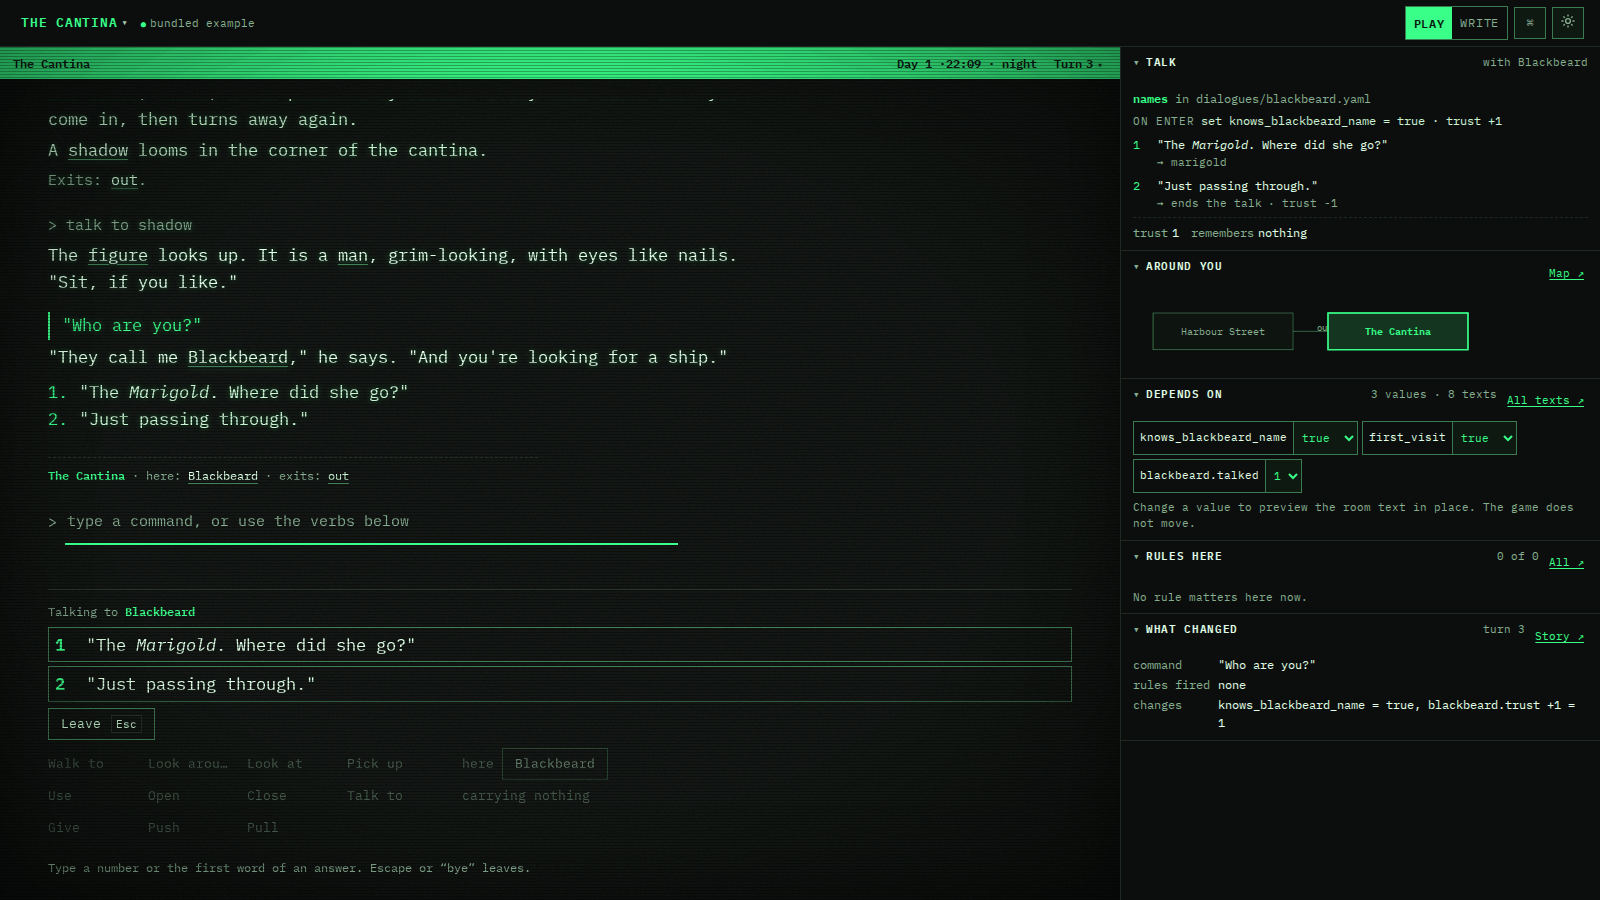
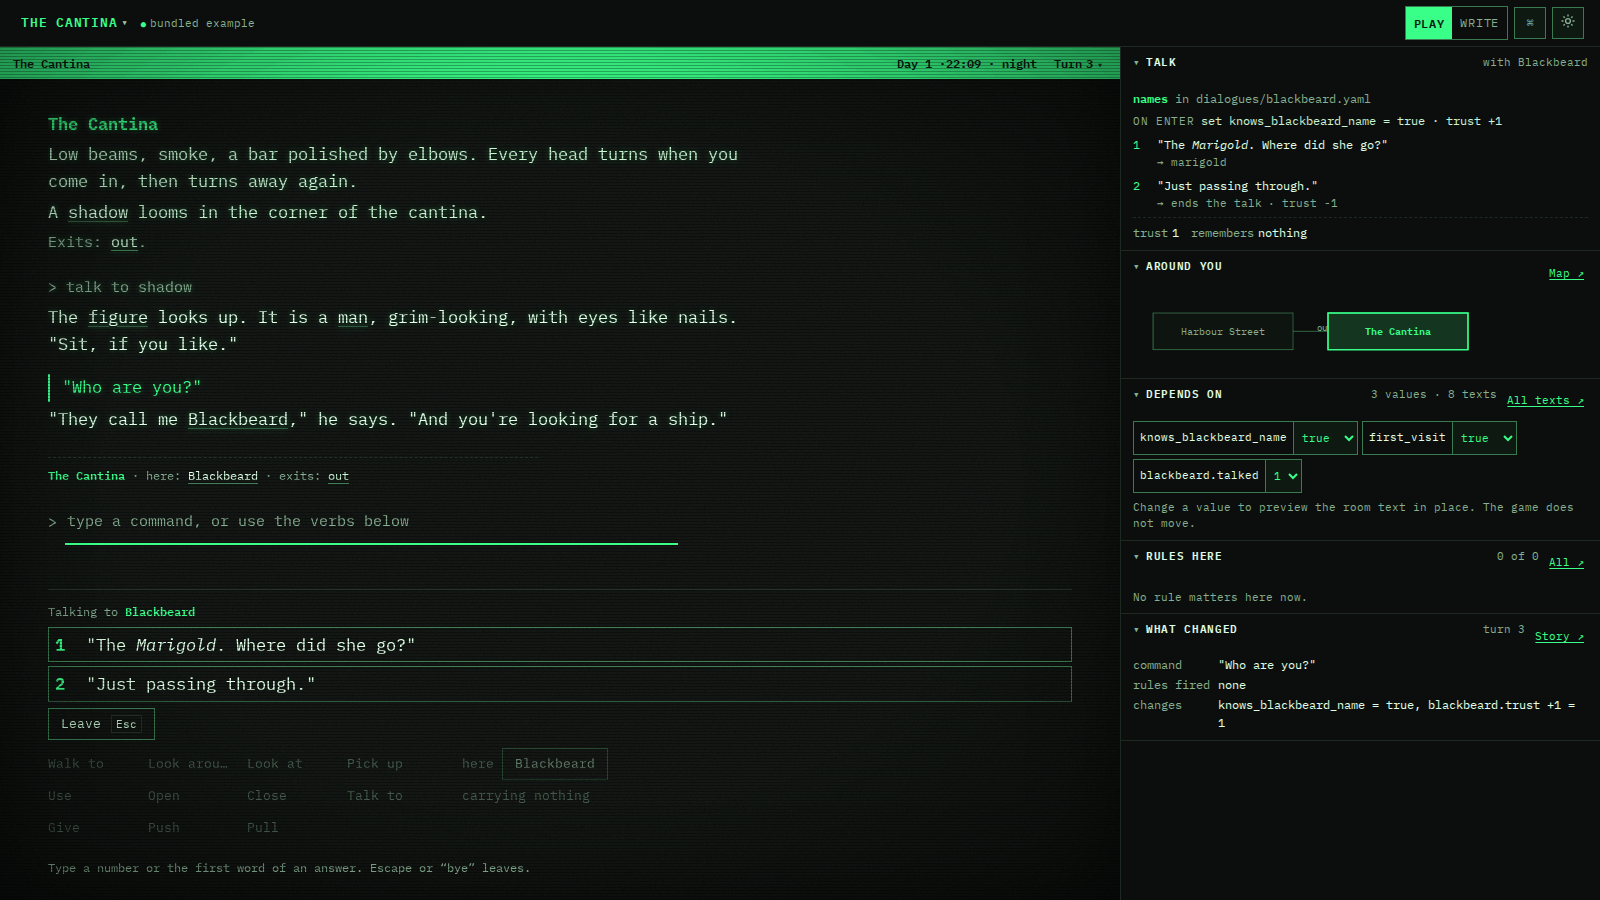
Show the answers of a talk only in the verb bar (#27)
## What

In a talk, the answers showed twice: as a numbered list in the story
text, and as buttons in the verb bar. Now they show only in the verb
bar.

- Transcript: in a talk it shows only what is said: the chosen answer,
then the other character's line. A new prop, `choicesInText`, shows the
numbered list again for a layout without a verb bar. The app does not
set it.
- Verb bar: it keeps the numbered answers and Leave. Number keys and Esc
work as before.
- Focus: when a talk starts, the focus goes to the first answer. After a
choice it goes to the new first answer, if it was on an old one. The
transcript `log` region announces the new line.
- CLI: unchanged. It keeps its numbered list.
- New Transcript stories for a talk. Updated VerbBar docs, the author
guide and the README caption. `docs/images/talk.png` is taken again, the
same way as before.

## Checks

- `task verify`, `pnpm check` (0 errors) and the Storybook build pass.
- axe (WCAG 2.2 AA) finds no violations on the Transcript and VerbBar
talk stories in all three themes.
- Web player, tested by hand: the focus moves to the first answer, the
`1` key chooses, Enter on an answer chooses, and Esc leaves.

diff --git a/web/src/lib/design/organisms/Transcript.stories.svelte b/web/src/lib/design/organisms/Transcript.stories.svelte
@@ -2,7 +2,7 @@
 	import { defineMeta } from '@storybook/addon-svelte-csf';
 	import type { ComponentProps } from 'svelte';
 	import { fn } from 'storybook/test';
-	import { authorTurn, doorTurn, drawerTurn, endTurn, entries, findings, exits, openingTurn, things } from '../fixtures.ts';
+	import { authorTurn, talkTurns, doorTurn, drawerTurn, endTurn, entries, findings, exits, openingTurn, things } from '../fixtures.ts';
 	import Transcript from './Transcript.svelte';
 	import FragmentWriter from './FragmentWriter.svelte';
 	import { shoreFragment, writerTools } from '../fixtures.ts';
@@ -38,6 +38,8 @@ Each echoed command starts with "You typed:" for screen readers.
 The **room brief** is one line under the newest turn: the room, the things here and the exits, all clickable. It shows only when the newest turn did not print the room, for example after "pick up iron key". Thus the text never ends without something to act on. The brief is not part of the log, so screen readers do not read it again after each turn, and it does not stay in the history.
 
 Screen-reader labels, such as "You typed:", are not part of copied text.
+
+In a **talk**, the transcript shows only what is said: the answer that the player chose (with a line on the left, and "You say:" for screen readers), then the line of the other character. The answers to choose from are in the verb bar. The log region announces the new line. For a layout without the verb bar, set \`choicesInText\`: then the numbered answers show under the newest line.
 
 When \`showSources\` is on (in the app: in write mode), text from an action frame has a small "frame" mark before it. The mark has a title that names the frame, for example "story frame for look, before".
 
@@ -129,4 +131,6 @@ The transcript scrolls to the newest text. Put it in a container with a fixed he
 	}}
 	{template}
 />
+<Story name="In a talk" args={{ entries: talkTurns.map((turn, id) => ({ id, turn })), room: 'cantina' }} {template} />
+<Story name="In a talk, answers in the text" args={{ entries: talkTurns.map((turn, id) => ({ id, turn })), room: 'cantina', choicesInText: true }} {template} />
 <Story name="Ending" args={{ entries: [{ id: 0, turn: openingTurn }, { id: 1, turn: endTurn }] }} {template} />

diff --git a/web/src/lib/design/organisms/VerbBar.svelte b/web/src/lib/design/organisms/VerbBar.svelte
@@ -60,6 +60,20 @@
 
 	const talking = $derived(talkingTo !== null);
 
+	let talkSection: HTMLElement | undefined = $state();
+	let wasTalking = false;
+	// The answers are the only way on during a talk. When a talk starts, the focus goes to the first answer.
+	// After a choice the old buttons go away; when the focus was on one of them, it goes to the new first answer.
+	$effect(() => {
+		const list = choices;
+		const starts = talking && !wasTalking;
+		wasTalking = talking;
+		if (!talking || !list.length || !talkSection) return;
+		const active = document.activeElement;
+		const lost = !active || active === document.body || talkSection.contains(active);
+		if (starts || lost) queueMicrotask(() => talkSection?.querySelector<HTMLButtonElement>('.choice')?.focus());
+	});
+
 	const selectedVerb = $derived(verbs.find((v) => v.id === selected));
 	const toItem = (t: ThingInfo) => ({ id: t.id, label: t.name, inspect: `thing:${t.id}` });
 </script>
@@ -72,7 +86,7 @@
 <div class="verb-bar" class:talking>
 	{#if talking}
 		<!-- A talk stays open until the player leaves. The answers replace the verbs; the verbs and things dim and do not take focus. -->
-		<section class="talk" aria-label="Talking to {talkingTo}">
+		<section class="talk" aria-label="Talking to {talkingTo}" bind:this={talkSection}>
 			<p class="talk-head">Talking to <strong>{talkingTo}</strong></p>
 			<ol class="choices">
 				{#each choices as c (c.index)}

diff --git a/web/src/lib/design/organisms/Transcript.svelte b/web/src/lib/design/organisms/Transcript.svelte
@@ -61,6 +61,11 @@
 		 * and the list of answers.
 		 */
 		talkwriter?: Snippet;
+		/**
+		 * Show the numbered answers of a talk in the text. Off by default: the verb bar shows the answers.
+		 * Set it for a layout without the verb bar, so that the talk stays playable.
+		 */
+		choicesInText?: boolean;
 		/** In write mode: the last command, when it got the default response. It offers "Write a response". */
 		respond?: string | null;
 		onrespond?: () => void;
@@ -87,6 +92,7 @@
 		respond = null,
 		onrespond,
 		talkwriter,
+		choicesInText = false,
 		preview = null,
 		margin = null,
 		ghosts = [],
@@ -448,8 +454,8 @@
 				{/each}
 				{#if entry.id === latest && entry.turn.talk && talkwriter}
 					{@render talkwriter()}
-				{:else if entry.id === latest && entry.turn.choices?.length}
-					<!-- The answers, numbered as the player types them. The verb bar has the buttons. -->
+				{:else if choicesInText && entry.id === latest && entry.turn.choices?.length}
+					<!-- The answers, numbered as the player types them, for a layout without the verb bar. -->
 					<ol class="choices" aria-label="Answers">
 						{#each entry.turn.choices as c (c.index)}
 							<li><span class="choice-number" aria-hidden="true">{c.index + 1}.</span><span>{#each pieces(c.text) as p, j (j)}{#if p.em}<em>{p.text}</em>{:else}{p.text}{/if}{/each}</span></li>

diff --git a/web/src/lib/design/organisms/VerbBar.stories.svelte b/web/src/lib/design/organisms/VerbBar.stories.svelte
@@ -48,7 +48,7 @@ A two-object verb, such as "Use", waits for a second thing. The "just use it" bu
 The verbs are toggle buttons (\`aria-pressed\`). The sentence line is a live region, so screen readers announce the command as it grows.
 The verb grid changes its number of columns with the width of the screen.
 
-During a talk (\`talkingTo\` is set), the answers that the player can choose show above the verbs, as a numbered list of buttons, with "Leave" after them. The verbs and the things dim and are inert: they do not take focus, and screen readers skip them. Only an answer or "Leave" ends the turn. The number keys and Escape do the same as the buttons; \`aria-keyshortcuts\` tells assistive technology.`
+During a talk (\`talkingTo\` is set), the answers that the player can choose show above the verbs, as a numbered list of buttons, with "Leave" after them. This is the only place of the answers: the transcript shows only what is said. When a talk starts, the focus goes to the first answer. After a choice, the focus goes to the new first answer when it was on an old one. The verbs and the things dim and are inert: they do not take focus, and screen readers skip them. Only an answer or "Leave" ends the turn. The number keys and Escape do the same as the buttons; \`aria-keyshortcuts\` tells assistive technology.`
 				}
 			}
 		}

diff --git a/web/src/lib/design/fixtures.ts b/web/src/lib/design/fixtures.ts
@@ -613,3 +613,28 @@ export const blackbeardTalk: TalkView = {
 	relations: [['trust', 0]],
 	memories: ['asked_marigold']
 };
+
+/** A talk with Blackbeard: the player chose "Who are you?". */
+export const talkTurns: Turn[] = [
+	{
+		blocks: [
+			{ kind: 'command', runs: [{ text: 'talk to shadow' }] },
+			{ kind: 'speech', runs: [{ text: 'The figure looks up. It is a man, grim-looking, with eyes like nails. "Sit, if you like."' }] }
+		],
+		ended: false,
+		log: []
+	},
+	{
+		blocks: [
+			{ kind: 'said', runs: [{ text: '"Who are you?"' }] },
+			{ kind: 'speech', runs: [{ text: '"They call me Blackbeard," he says. "And you\'re looking for a ship."' }] }
+		],
+		ended: false,
+		log: [],
+		talk: { dialogue: 'blackbeard', with: 'blackbeard', name: 'Blackbeard', node: 'names' },
+		choices: [
+			{ index: 0, text: '"The *Marigold*. Where did she go?"' },
+			{ index: 1, text: '"Just passing through."' }
+		]
+	}
+];

diff --git a/docs/writing-stories.md b/docs/writing-stories.md
@@ -168,14 +168,16 @@ Conditions can read the new values:
 
 During a talk:
 
-- The game shows the answers as a numbered list. Type a number, or the first word of an answer. In the web player, click an answer or push its number key.
+- The story text shows only what is said: the answer of the player, then the line of the thing.
+- In the web player, the answers are in the verb bar, as numbered buttons. Click an answer or push its number key. When the talk starts, the focus goes to the first answer.
+- In the terminal, the answers show as a numbered list after the text. Type a number, or the first word of an answer.
 - Each answer takes one turn.
 - Other commands do not run. To leave the talk, type `bye` or `leave`, or push Escape.
 - A talk ends when the player chooses an answer that ends it, when a node has no answer that shows, or when an effect takes the player away.
 
 `loremaster check` examines each dialogue: conditions, markup, targets of `go`, and nodes that no start node leads to.
 
-![A talk with Blackbeard in the web player. The answers show as a numbered list in the story text and in the verb bar.](images/talk.png)
+![A talk with Blackbeard in the web player. The story text shows what is said. The answers are numbered buttons in the verb bar.](images/talk.png)
 
 In the editor, the room desk shows the dialogues of the things in the room. During a talk in write mode (Ctrl+E), you can change the line and the answers in the game text.
 

diff --git a/README.md b/README.md
@@ -10,7 +10,7 @@ Try it in the browser: [sunsided.github.io/loremaster](https://sunsided.github.i
 
 ![Write mode: the same room. Each text fragment shows its layer and its condition in the margin, and the room desk shows the file, notes and rules.](docs/images/write.png)
 
-![A talk in the cantina example. The player asked Blackbeard "Who are you?", and he gave his name. The numbered answers show in the story text and in the verb bar, with "Leave". The verbs and things are dim during the talk. The side panel shows the node of the dialogue, its changes and the trust of the player.](docs/images/talk.png)
+![A talk in the cantina example. The player asked Blackbeard "Who are you?", and he gave his name. The story text shows what is said. The answers are numbered buttons in the verb bar, with "Leave". The verbs and things are dim during the talk. The side panel shows the node of the dialogue, its changes and the trust of the player.](docs/images/talk.png)
 
 ![The Atlas map of Zork I, imported from its ZIL source: 110 rooms on six floors, with the rooms of the current floor and the details of the selected room.](docs/images/atlas.png)
 
